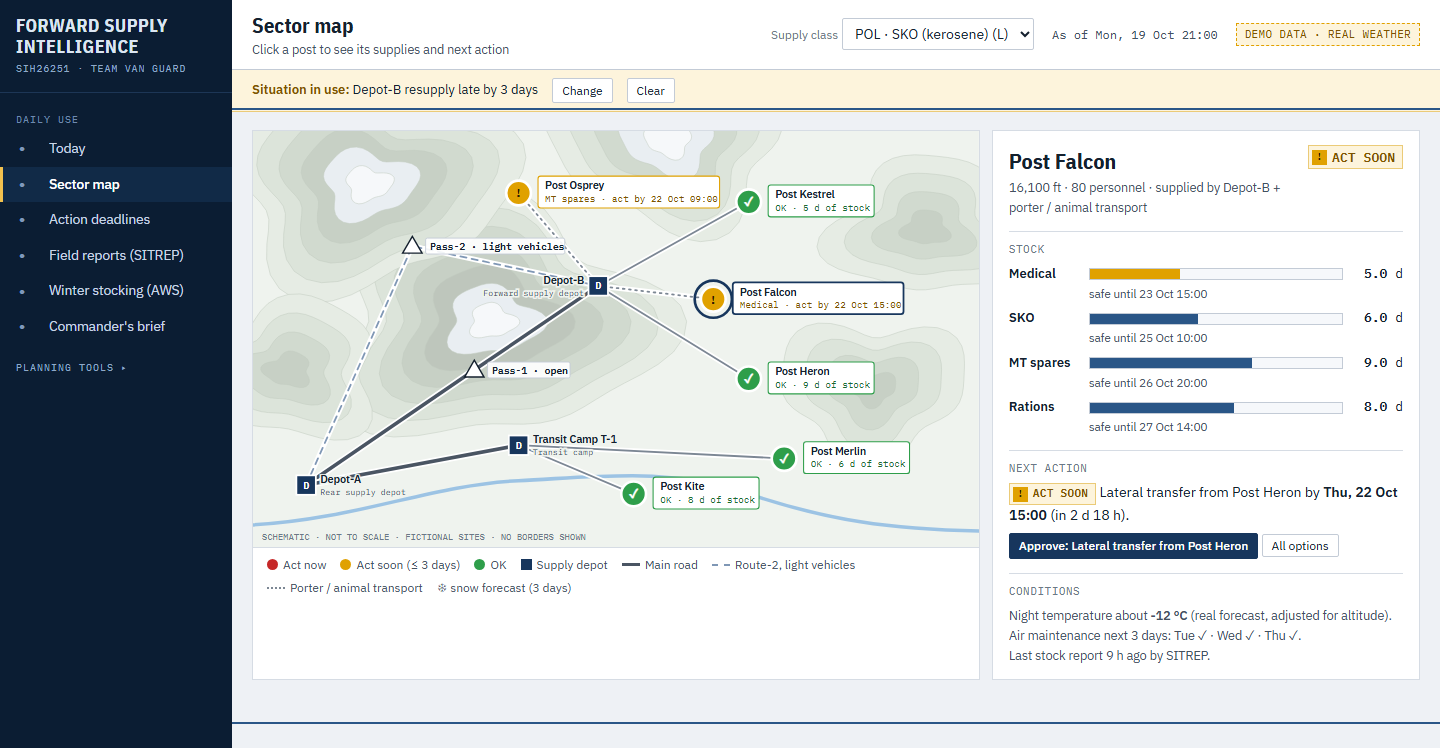
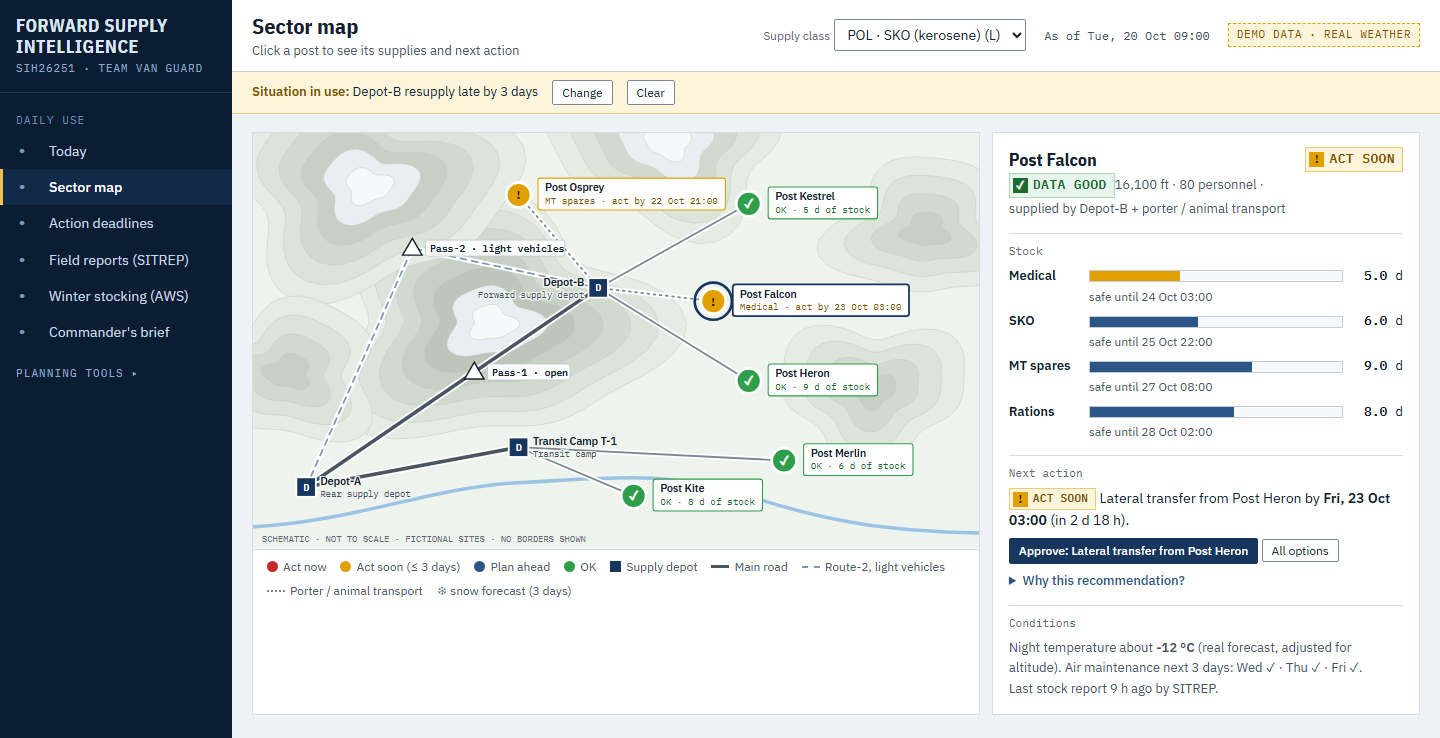
Retake the 11 page screenshots; README design-system notes; terminology and honesty fixes
Screenshots: headless Chrome, 1440 px wide, empty space trimmed. What-if says Knock-on
effects / Compare plans instead of Ripple / Stress; the brief's caveat no longer calls
rule-based margins probabilities. Cache version v=12.

diff --git a/web/js/views-sim.js b/web/js/views-sim.js
@@ -29,12 +29,12 @@
       <div class="grid m1">
         <div class="panel"><div class="ph"><h3>Inputs</h3></div><div class="pb form">
           <div class="field"><label for="wNode">Node (disruption source)</label><select id="wNode">${NODES.map(x => `<option value="${x.id}">${x.name} · ${x.role}</option>`).join('')}</select><div class="help">${n.role}. Supplied by ${n.parent ? E.BYID[n.parent].name : 'railhead'} via ${n.route || 'track'}.</div></div>
-          <div class="field" id="f-s"><label for="wS">Available inventory</label><div class="row"><input type="number" id="wS" min="0" step="1" value="${Math.round(v.s)}"><span class="unit">${it.unit}</span></div><div class="err">Enter 0 or more.</div>${st.inv ? `<div class="help">The Stress page cuts this by ${st.inv}%.</div>` : ''}</div>
+          <div class="field" id="f-s"><label for="wS">Available inventory</label><div class="row"><input type="number" id="wS" min="0" step="1" value="${Math.round(v.s)}"><span class="unit">${it.unit}</span></div><div class="err">Enter 0 or more.</div>${st.inv ? `<div class="help">The Compare plans page cuts this by ${st.inv}%.</div>` : ''}</div>
           <div class="field" id="f-c"><label for="wC">Average daily consumption</label><div class="row"><input type="number" id="wC" min="0" step="0.1" value="${Math.round(v.c * 10) / 10}" ${n.type === 'depot' ? 'readonly' : ''}><span class="unit">${it.unit}/d</span></div><div class="err">Must be more than 0.</div><div class="help">${n.type === 'depot' ? 'For a depot this is its outflow to the posts it supplies (edit at post level).' : `${n.troops} personnel × scale × altitude factor.`}</div></div>
           <div class="field" id="f-l"><label for="wL">Expected delivery time</label><div class="row"><input type="number" id="wL" min="0" max="30" step="1" value="${v.L}"><span class="unit">days</span></div><div class="err">Enter 0 to 30.</div></div>
           <div class="field"><label for="wD">Additional delivery delay</label><div class="row"><input type="range" id="wD" data-fmt="delay" min="0" max="10" value="${st.delay}"><output class="val">+${st.delay} d</output></div></div>
           <div class="field"><label for="wX">Change in consumption</label><div class="row"><input type="range" id="wX" data-fmt="pct" min="-30" max="60" step="5" value="${st.cons}"><output class="val">${st.cons >= 0 ? '+' : ''}${st.cons}%</output></div><div class="help">Cold snap, troop surge or patrol tempo. Applies to this node and everything it supplies.</div></div>
-          <div style="display:flex;gap:8px;flex-wrap:wrap"><a class="btn primary" href="#/ripple" style="text-decoration:none">Trace ripple effect →</a><button type="button" class="btn" id="wReset">Reset inputs</button></div>
+          <div style="display:flex;gap:8px;flex-wrap:wrap"><a class="btn primary" href="#/ripple" style="text-decoration:none">Trace knock-on effects →</a><button type="button" class="btn" id="wReset">Reset inputs</button></div>
         </div></div>
         <div class="panel"><div class="ph"><h3>Normal vs disrupted</h3>${ui.srcTag('ESTIMATE')}</div><div class="pb" id="wOut"></div></div>
       </div>`;
@@ -71,7 +71,7 @@
         <dt>Risk class</dt><dd>${p} (rule-based)</dd><dt>Shortage</dt><dd>${rem < 0 ? fmt(-rem) + ' ' + it.unit : 'none'}</dd></dl><div style="margin-top:8px">${sevTag(c_, l_)} <span style="font-size:var(--fs-small)">${tx}</span></div></div>`;
       ui.$('#wOut').innerHTML = `<div class="cmp2">${card('nor', 'Normal delivery', L, remN, tN, P(L, c), cN, lN, tNt)}${card('dis', `Disrupted (+${d} d, ${st2.cons >= 0 ? '+' : ''}${st2.cons}% use)`, A, remD, tD, P(A, c2), cD, lD, tDt)}</div>
         <div class="callout row ${{ red: 'critical', amber: 'warning', green: 'healthy' }[cD]}">${sevTag(cD, lD)}<p><b>Estimated impact:</b> ${remD < 0 ? `${n.name} would run out of ${it.name.toLowerCase()} on ${ui.when(tD)}, ${fmt(A - tD, 1)} d before the delivery on ${ui.when(A)}. The gap is ${fmt(shortU)} ${it.unit}; covering it by air maintenance costs about <b>₹${fmt(cost, 1)} lakh</b> at ₹${CONFIG.airRate}/kg ${ui.srcTag('ILLUSTRATIVE')}.` : mD < 2 ? `No stock-out expected, but the margin shrinks from ${fmt(mN, 1)} d to ${fmt(mD, 1)} d.` : `Delay absorbed: stock lasts ${fmt(mD, 1)} d beyond delivery.`}</p></div>
-        ${n.type === 'depot' ? '<p class="note">For a depot, a shortage here means dispatches fall behind. The Ripple page shows which posts are hit.</p>' : ''}
+        ${n.type === 'depot' ? '<p class="note">For a depot, a shortage here means dispatches fall behind. The Knock-on effects page shows which posts are hit.</p>' : ''}
         <div class="chart-wrap" style="margin-top:10px"><svg class="fluid" id="wChart" viewBox="0 0 640 230" role="img" aria-label="Projected stock"></svg><div class="tip" id="wTip"></div></div>
         <div class="legend"><span><i style="border-color:var(--navy-500)"></i>Normal</span><span><i style="border-color:var(--dis);border-top-style:dashed"></i>Disrupted</span><span><i class="box tint-critical"></i>shortage window</span><span>▼ delivery</span></div>`;
       chart({ s, c, c2, L, A, q: v2.q, F: 1 - st2.short / 100, tD, unit: it.unit });

diff --git a/web/index.html b/web/index.html
@@ -7,7 +7,7 @@
 <meta name="description" content="Decision-support prototype for forward logistics: act-by deadlines, disruption simulation and plan comparison. Synthetic data.">
 <link rel="preconnect" href="https://fonts.googleapis.com">
 <link href="https://fonts.googleapis.com/css2?family=IBM+Plex+Mono:wght@400;500;600&family=IBM+Plex+Sans+Condensed:wght@500;600;700&family=IBM+Plex+Sans:wght@400;500;600&display=swap" rel="stylesheet">
-<link rel="stylesheet" href="css/app.css?v=11">
+<link rel="stylesheet" href="css/app.css?v=12">
 </head>
 <body>
 <div class="shell">
@@ -44,17 +44,17 @@
     <main class="main" id="view" tabindex="-1"></main>
   </div>
 </div>
-<script src="js/data.js?v=11"></script>
-<script src="js/weather-data.js?v=11"></script>
-<script src="js/weather.js?v=11"></script>
-<script src="js/engine.js?v=11"></script>
-<script src="js/ui.js?v=11"></script>
-<script src="js/explain.js?v=11"></script>
-<script src="js/views.js?v=11"></script>
-<script src="js/views-sim.js?v=11"></script>
-<script src="js/views-weather.js?v=11"></script>
-<script src="js/map.js?v=11"></script>
-<script src="js/today.js?v=11"></script>
-<script src="js/app.js?v=11"></script>
+<script src="js/data.js?v=12"></script>
+<script src="js/weather-data.js?v=12"></script>
+<script src="js/weather.js?v=12"></script>
+<script src="js/engine.js?v=12"></script>
+<script src="js/ui.js?v=12"></script>
+<script src="js/explain.js?v=12"></script>
+<script src="js/views.js?v=12"></script>
+<script src="js/views-sim.js?v=12"></script>
+<script src="js/views-weather.js?v=12"></script>
+<script src="js/map.js?v=12"></script>
+<script src="js/today.js?v=12"></script>
+<script src="js/app.js?v=12"></script>
 </body>
 </html>

diff --git a/web/js/views.js b/web/js/views.js
@@ -200,7 +200,7 @@
       <h3>5. Decisions recorded</h3>
       <ul>${(st.decisions || []).slice(-8).map(d => `<li>${esc(d.at)}: ${esc(d.post)} · ${esc(d.item)}: ${esc(d.option)} (deadline ${esc(d.actBy)})</li>`).join('') || '<li>None yet.</li>'}</ul>
       <h3>6. Caveats</h3>
-      <p style="font-size:var(--fs-small);color:var(--ink-2)">All figures are estimates from documented rules on synthetic data. Probabilities assume normal demand variation with report-age uncertainty. Costs, closure dates and airlift availability are illustrative. The system recommends; the commander decides.</p>
+      <p style="font-size:var(--fs-small);color:var(--ink-2)">All figures are estimates from documented rules on synthetic data. Risk classes and safe-until times are rule-based: they assume normal demand variation with report-age uncertainty and are not calibrated probabilities. Costs, closure dates and airlift availability are illustrative. The system recommends; the commander decides.</p>
     </div>`;
   };
 

diff --git a/web/README.md b/web/README.md
@@ -24,7 +24,17 @@ All pages share one scenario (top bar), so a change anywhere updates everything.
 ## Code
 - `js/data.js` — synthetic dataset and assumptions
 - `js/engine.js` — all calculations (no DOM); documented on the Methods page
-- `js/ui.js`, `js/views*.js`, `js/app.js` — rendering, routing, shared state
+- `js/ui.js`, `js/views*.js`, `js/map.js`, `js/today.js`, `js/app.js` — rendering, routing, shared state
+- Tests: `node --test web/tests/engine.test.js` (14 engine tests)
+
+## Design system
+The UI follows `DESIGN.md` at the repository root. In short:
+- **Tokens** live in `css/app.css` (`:root`): base palette, semantic aliases (`--status-critical`, `--text-meta`, `--border-control`, …), a nine-step type scale (`--fs-display` … `--fs-tag`, never below 11 px) and the chart/map colours.
+- **SVG maps and charts** read the same tokens through `ui.tok('--name')`, so there are no hard-coded colours in the view code.
+- **Status badges** (`ui.tag`, `ui.statusTag`) always pair an icon with a meaning word: ACT NOW, ACT SOON, PLAN AHEAD, OK, TOO LATE, SHORTAGE, AT RISK. The rule-based risk class is LOW / MEDIUM / HIGH, labelled "(rule-based)".
+- **Source tags** (`ui.srcTag(word)`, class `.tag`) say what kind of number something is, using only ESTIMATE, SIMULATED, ILLUSTRATIVE, ASSUMED, AVERAGE, REAL PUBLIC, RULE-BASED, PLANNED, SNAPSHOT.
+- **Components:** one `.callout` (critical / warning / healthy / info) and one `.metric` (`.metric--status` for Today's counts) replace the earlier one-off styles.
+- Screenshots of all 11 pages (1440 px wide) are in `submission/screenshots/`.
 
 ## Honest limits
-Demand comes from ration scales and a weather-driven SKO rule, not yet from a trained forecaster. Probabilities use a normal approximation. Costs, closure dates and airlift availability are illustrative. The system recommends; a human decides.
+Demand comes from ration scales and a weather-driven SKO rule, not yet from a trained forecaster. The risk class and the "safe until" time use an assumed demand spread; they are rule-based, not calibrated probabilities. Costs, closure dates and airlift availability are illustrative. The system recommends; a human decides.
